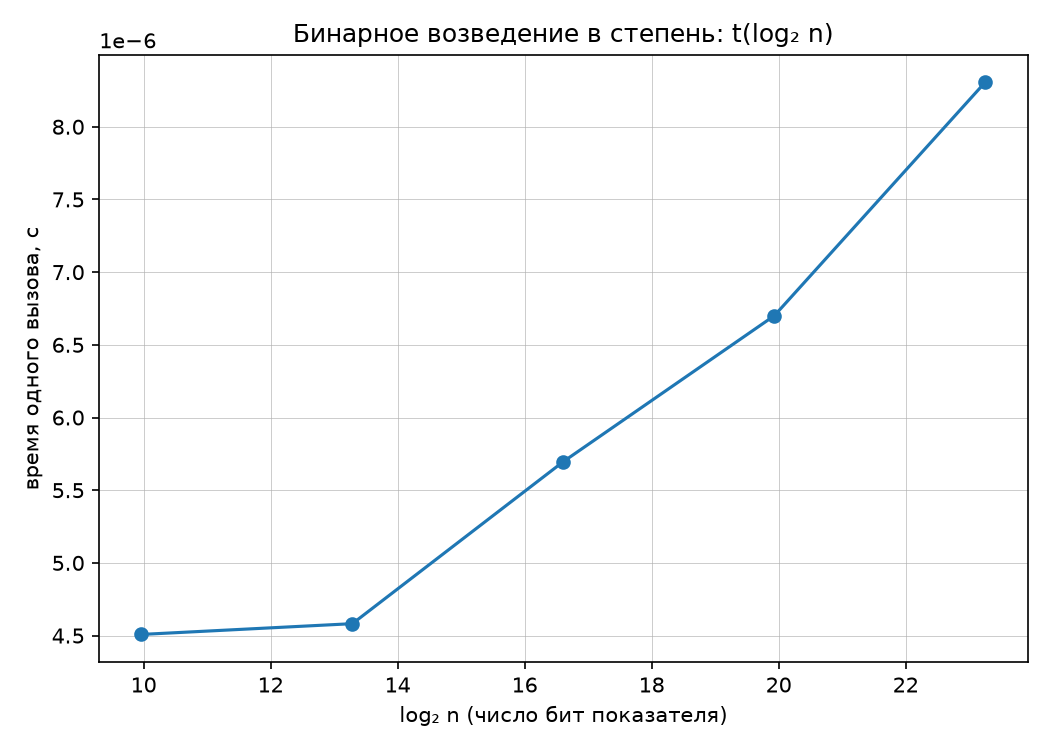
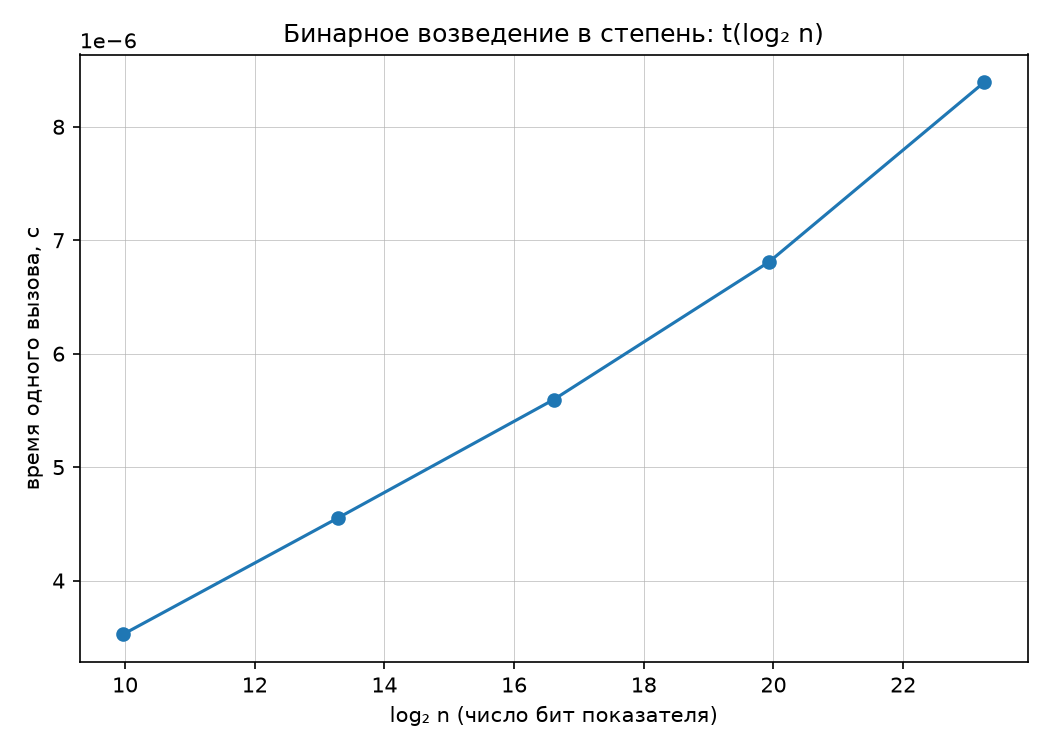
Fix asserts

diff --git a/M1-intro-and-basic-structures/attachments/lab01-complexity-starter.py b/M1-intro-and-basic-structures/attachments/lab01-complexity-starter.py
@@ -227,33 +227,32 @@ def self_check() -> None:
     # (например: count_equal_pairs на массиве из попарно различных элементов = 0).
         # Собственные проверки инвариантов
 
-    # Сумма пустого массива всегда равна 0
-    assert array_sum([]) == 0
+    # Сумма не зависит от порядка элементов
+    assert array_sum([1, 2, 3, 4]) == array_sum([4, 3, 2, 1])
 
-    # Сумма массива из одного элемента равна этому элементу
-    assert array_sum([7]) == 7
+    # Сумма объединённых массивов равна сумме их отдельных сумм
+    assert array_sum([1, 2] + [3, 4]) == array_sum([1, 2]) + array_sum([3, 4])
 
-    # Максимум массива из одного элемента равен этому элементу
-    assert array_max([5]) == 5
+    # Максимум не зависит от порядка элементов
+    assert array_max([1, 8, 3, 5]) == array_max([5, 3, 8, 1])
 
-    # Максимум должен корректно находиться среди отрицательных чисел
+    # Проверка максимума на отрицательных числах
     assert array_max([-10, -3, -7]) == -3
 
     # Если все элементы различны, равных пар нет
     assert count_equal_pairs([1, 2, 3, 4]) == 0
 
-    # Если все n элементов одинаковы, число пар равно n(n - 1) / 2
-    a = [5, 5, 5, 5]
-    n = len(a)
-    assert count_equal_pairs(a) == n * (n - 1) // 2
+    # Перестановка элементов не изменяет количество равных пар
+    assert count_equal_pairs([1, 2, 1, 2]) == count_equal_pairs([2, 1, 2, 1])
 
-    # Любое число в степени 0 равно 1
-    assert binary_pow(7, 0) == 1
+    # Для степени единицы результат равен основанию
+    assert binary_pow(7, 1) == 7
 
-    # Проверка бинарного возведения по модулю
-    assert binary_pow(2, 10, mod=5) == pow(2, 10, 5)
+    # Результат вычисления по модулю должен быть меньше модуля
+    result = binary_pow(2, 20, mod=7)
+    assert 0 <= result < 7
 
-    print("self_check: OK")
+    print("new_self_check: OK")
 
 
 # ---------------------------------------------------------------------------
